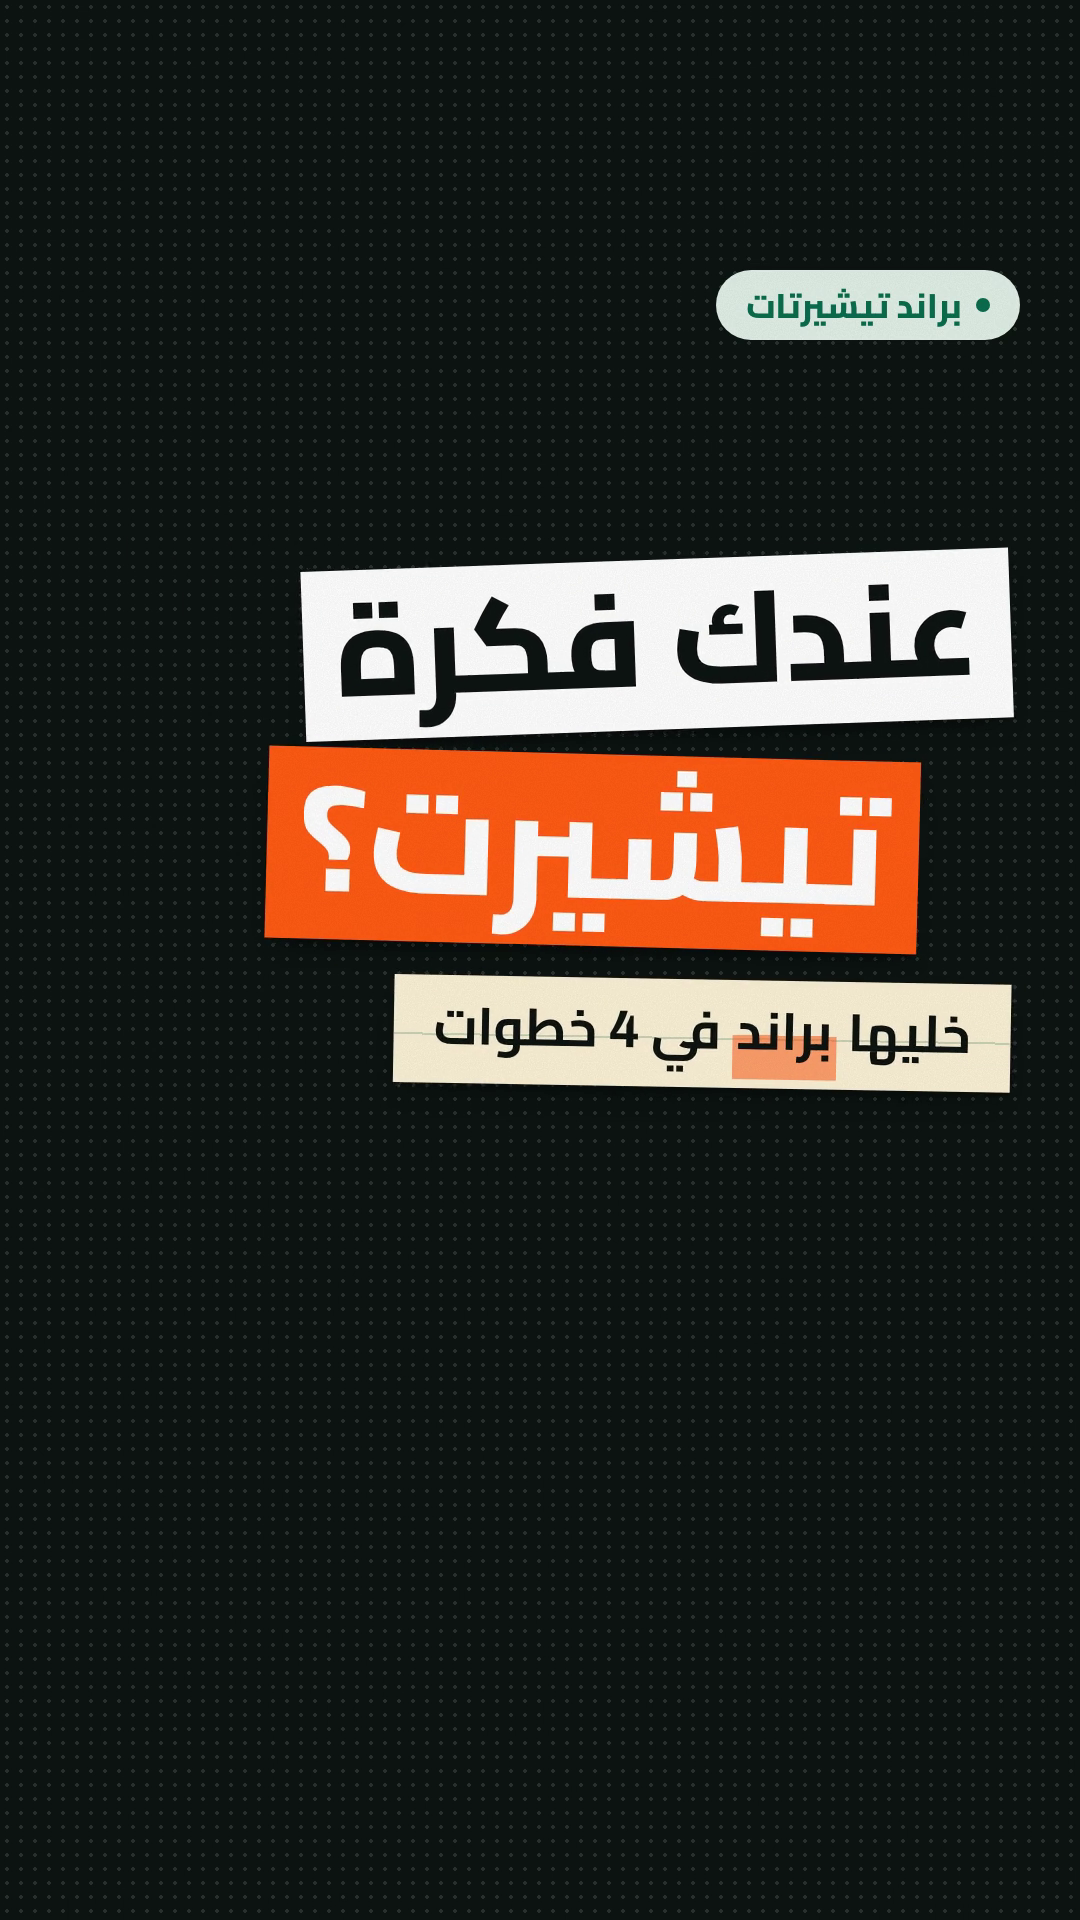
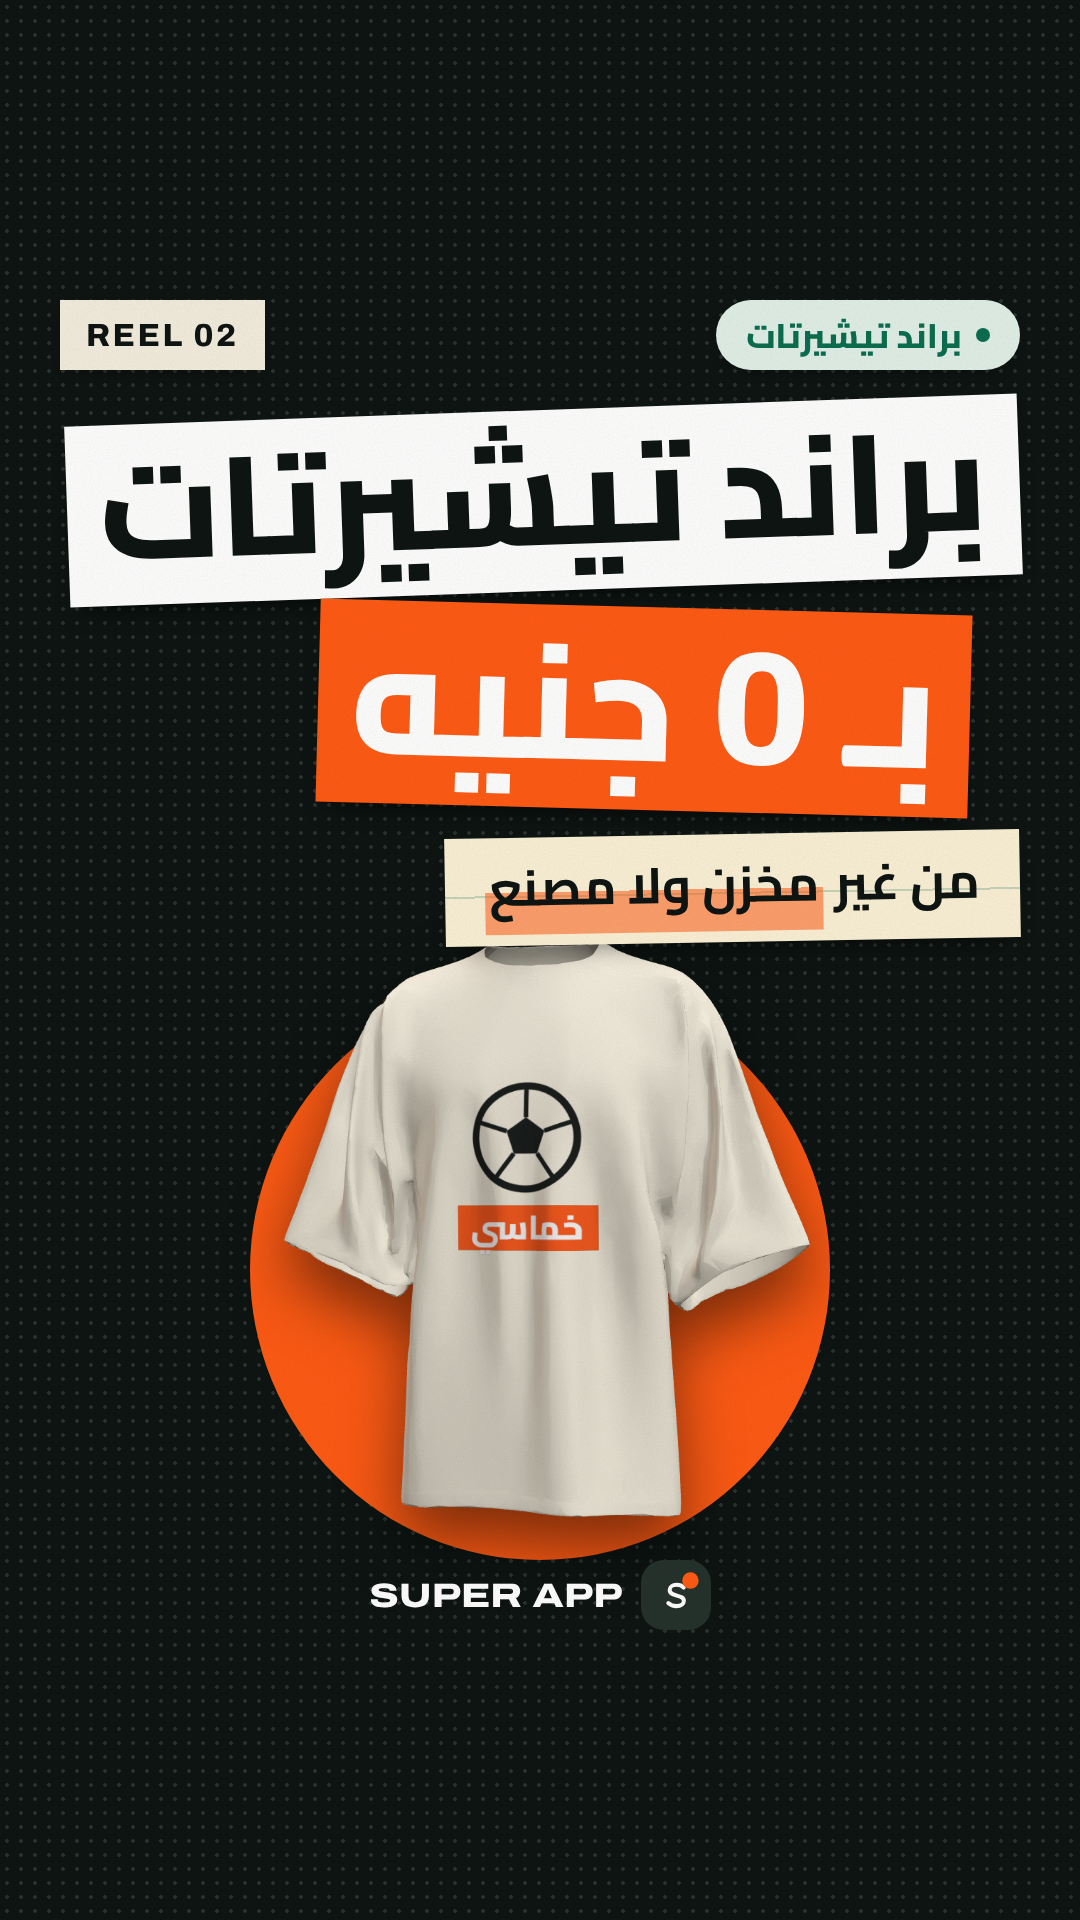
Designed reel covers for all seven reels
_kit/covers.html + covers.js render one series look (REEL 0X badge, ransom title, the reel's own art)
into each reel's cover.png, with everything inside the 4:5 profile-grid crop. The export pack and
caption files now point to the designed covers.

Claude-Session: https://claude.ai/code/session_01KdUXaQ8kdj6zjJLXkhVui9

diff --git a/marketing/reels/_kit/covers.html b/marketing/reels/_kit/covers.html
@@ -1,0 +1,80 @@
+<!doctype html>
+<html lang="ar" dir="rtl">
+<head>
+<meta charset="utf-8">
+<title>Reel covers</title>
+<!-- Designed covers for every reel, one series look. Render with ?r=01..07 (covers.js renders all into each reel's cover.png).
+     Everything that matters sits in the centre 1080×1350 (y 285–1635), so the profile grid's 4:5 / 3:4 crop keeps it. -->
+<link rel="stylesheet" href="reel.css">
+<style>
+  .series { top: 300px; left: 60px; z-index: 50; height: 70px; padding: 0 26px; background: var(--cream); color: var(--ink); font: 800 32px "Archivo", sans-serif; letter-spacing: .08em; display: flex; align-items: center; direction: ltr; box-shadow: 0 8px 16px -10px rgba(0,0,0,.45); }
+  .bg-cream .series { background: var(--ink); color: #fff; }
+  .tag { top: 300px; }
+  .title { right: 60px; left: 60px; top: 410px; display: flex; flex-direction: column; align-items: flex-start; gap: 16px; z-index: 30; }
+  .art { z-index: 10; }
+  .foot { left: 0; right: 0; top: 1560px; display: flex; justify-content: center; align-items: center; gap: 18px; z-index: 30; }
+  .foot .wm { font: 800 34px Archivo, sans-serif; font-stretch: 125%; color: var(--fg); direction: ltr; }
+  .print { background: #fff; padding: 16px; box-shadow: 0 30px 40px -22px rgba(0,0,0,.6); }
+  .print img { display: block; width: 100%; }
+  .circle { border-radius: 50%; overflow: hidden; box-shadow: 0 30px 40px -22px rgba(0,0,0,.6); border: 14px solid #fff; }
+  .circle img { width: 100%; display: block; }
+</style>
+</head>
+<body>
+<div class="abs halftone" id="ht"></div>
+<div class="abs tag"><i></i><span id="tagtx"></span></div>
+<div class="abs series" id="series"></div>
+<div id="c"></div>
+<div class="abs foot" id="foot"></div>
+<svg class="abs grain" width="1080" height="1920"><filter id="n"><feTurbulence type="fractalNoise" baseFrequency=".85" numOctaves="2" seed="4"/><feColorMatrix values="0 0 0 0 .08  0 0 0 0 .07  0 0 0 0 .05  0 0 0 .18 0"/></filter><rect width="1080" height="1920" filter="url(#n)"/></svg>
+<script src="reel.js"></script>
+<script>
+const R = '..';
+const tile = (bg, fg, label, icon) => `<div class="tile" style="width:230px;height:230px;border-radius:56px;background:${bg};color:${fg};font-size:30px">${icon}${label}</div>`;
+const COVERS = {
+  '01': { bg: 'bg-cream', tag: 'ماتش خماسي', title: [['b-ink', 150, 'أنواع اللاعيبة'], ['b-blaze', 140, 'في الخماسي'], ['note', 54, 'وانت <mark>مين فيهم؟</mark> 😂']],
+    art: `<div class="abs art circle" style="left:90px;top:900px;width:480px;height:480px;transform:rotate(-6deg)"><img src="${R}/01-khomasi-types/cover-art-10.png"></div>
+          <div class="abs art circle" style="right:80px;top:960px;width:420px;height:420px;transform:rotate(5deg)"><img src="${R}/01-khomasi-types/cover-art-5.png"></div>
+          <div class="abs tape" style="left:320px;top:900px;z-index:12;transform:rotate(-14deg)"></div>` },
+  '02': { bg: '', tag: 'براند تيشيرتات', title: [['b-paper', 140, 'براند تيشيرتات'], ['b-blaze', 160, 'بـ 0 جنيه'], ['note', 50, 'من غير <mark>مخزن ولا مصنع</mark>']],
+    art: `<div class="abs" style="left:250px;top:980px;width:580px;height:580px;border-radius:50%;background:var(--blaze)"></div>
+          <img class="abs art" src="${R}/02-tee-3d/assets/tee-print.png" style="left:220px;top:860px;width:640px;filter:drop-shadow(0 30px 30px rgba(0,0,0,.5))">` },
+  '03': { bg: 'bg-turf', tag: 'فانتازي الدوري المصري', title: [['b-paper', 120, 'فانتازي المصري'], ['b-ink', 110, 'والإنجليزي'], ['b-blaze', 130, 'في حساب واحد']],
+    art: `<div class="abs art phone" style="left:130px;top:990px;width:360px;height:520px;transform:rotate(-7deg)"><div class="screen"><img src="${R}/03-fantasy-two-leagues/assets/fx-egy.jpg" style="display:block"></div></div>
+          <div class="abs art phone" style="right:130px;top:970px;width:360px;height:520px;transform:rotate(6deg)"><div class="screen"><img src="${R}/03-fantasy-two-leagues/assets/fx-epl.jpg" style="display:block"></div></div>` },
+  '04': { bg: 'bg-cream', tag: 'ماتش خماسي', title: [['b-paper', 120, 'الماتش الساعة 9'], ['b-blaze', 130, 'وواحد اعتذر'], ['b-ink', 120, 'الساعة 8 😩']],
+    art: `<div class="abs art" style="left:90px;right:90px;top:1060px;display:flex;flex-direction:column;gap:20px">
+            <div class="bubble b-in" style="font-size:46px;transform:rotate(-2deg)"><span class="who">حسام</span>معلش يا رجالة مش هقدر آجي 🙏<small>8:02 م</small></div>
+            <div class="bubble b-out" style="font-size:46px;transform:rotate(1.5deg)">يعني إيه؟؟ الماتش كمان ساعة<small>8:03 م</small></div></div>` },
+  '05': { bg: '', tag: 'لأصحاب الملاعب', title: [['b-paper', 130, 'من الكراسة'], ['b-blaze', 140, 'للداشبورد'], ['note', 50, 'ملعبك <mark>أونلاين</mark> قبل الإطلاق']],
+    art: `<div class="abs art laptop" style="left:60px;top:1000px;width:960px;transform:rotate(-2deg)"><img src="${R}/05-notebook-to-dashboard/assets/dash-availability.jpg" style="height:440px;object-fit:cover;object-position:top"></div>
+          <div class="abs tape" style="left:30px;top:985px;z-index:12;transform:rotate(-30deg)"></div>` },
+  '06': { bg: 'bg-cream', tag: 'كل الكورة في مكان واحد', title: [['b-paper', 140, '4 أبلكيشنات'], ['b-blaze', 100, 'عشان ماتش واحد؟'], ['note', 54, 'قولنا <mark>رأيك</mark> في الكومنتات 👇']],
+    art: `<div class="abs art" style="left:110px;right:110px;top:1000px;display:grid;grid-template-columns:repeat(4,1fr);gap:24px;justify-items:center">
+      ${tile('var(--turf)', '#fff', 'حجز', '<svg width="80" height="80" viewBox="0 0 24 24" fill="none" stroke="#fff" stroke-width="1.6"><rect x="3" y="5" width="18" height="14" rx="1.5"/><path d="M12 5v14"/><circle cx="12" cy="12" r="2.2"/></svg>').replace('230px;height:230px', '180px;height:180px')}
+      ${tile('var(--ink)', '#fff', 'فانتازي', '<svg width="80" height="80" viewBox="0 0 24 24" fill="none" stroke="#fff" stroke-width="1.6" stroke-linejoin="round"><path d="M7 4h10v4a5 5 0 0 1-10 0z"/><path d="M12 13v4M8 20h8"/></svg>').replace('230px;height:230px', '180px;height:180px')}
+      ${tile('var(--surface)', 'var(--ink)', 'جداول', '<svg width="80" height="80" viewBox="0 0 24 24" fill="none" stroke="#0D1411" stroke-width="1.6"><rect x="3" y="4" width="18" height="17" rx="2"/><path d="M3 9h18"/></svg>').replace('230px;height:230px', '180px;height:180px')}
+      ${tile('#D6EFDF', 'var(--ink)', 'فلوس', '<svg width="80" height="80" viewBox="0 0 24 24" fill="none" stroke="#0D1411" stroke-width="1.6" stroke-linejoin="round"><path d="M4 18.5V6a2 2 0 0 1 2-2h12a2 2 0 0 1 2 2v8a2 2 0 0 1-2 2H8z"/></svg>').replace('230px;height:230px', '180px;height:180px')}
+    </div>
+    <div class="abs art" style="left:0;right:0;top:1250px;display:flex;justify-content:center"><span class="cta" style="font-size:44px;height:100px;background:var(--ink)">ولا تطبيق واحد؟</span></div>` },
+  '07': { bg: '', tag: 'Collab · ماتش خماسي', title: [['b-paper', 150, 'ماتش واحد'], ['b-blaze', 160, '3 حكايات'], ['note', 50, 'ملعب، ولاعيبة، و<mark>براند مصري</mark>']],
+    art: `<div class="abs" style="left:300px;top:1000px;width:480px;height:480px;border-radius:50%;background:var(--turf)"></div>
+          <img class="abs art" src="${R}/02-tee-3d/assets/tee-print.png" style="left:300px;top:930px;width:480px;filter:drop-shadow(0 30px 30px rgba(0,0,0,.5))">
+          <div class="abs art" style="right:60px;top:1040px;transform:rotate(-5deg)"><span class="cta" style="background:var(--surface);color:var(--ink);font-size:36px">⚽ الملعب</span></div>
+          <div class="abs art" style="left:60px;top:1190px;transform:rotate(4deg)"><span class="cta" style="background:var(--surface);color:var(--ink);font-size:36px">🧢 الكابتن</span></div>
+          <div class="abs art" style="right:80px;top:1340px;transform:rotate(-3deg)"><span class="cta" style="background:var(--surface);color:var(--ink);font-size:36px">👕 البراند</span></div>` },
+};
+const r = new URLSearchParams(location.search).get('r') || '01', c = COVERS[r];
+if (c.bg) document.body.classList.add(c.bg); else document.getElementById('ht').style.display = 'block';
+if (c.bg) document.getElementById('ht').style.display = 'none';
+document.getElementById('tagtx').textContent = c.tag;
+document.getElementById('series').textContent = `REEL ${r}`;
+const tilts = [-2, 1.5, -1];
+document.getElementById('c').innerHTML = `<div class="abs title">${c.title.map(([cls, size, txt], i) => cls === 'note'
+  ? `<span class="note" style="font-size:${size}px;margin-top:8px;transform:rotate(${tilts[i]}deg)">${txt}</span>`
+  : `<span class="block ${cls}" style="font-size:${size}px;transform:rotate(${tilts[i]}deg);${i === 1 && size < 150 && txt.length < 12 ? 'margin-inline-start:50px' : ''}">${txt}</span>`).join('')}</div>${c.art}`;
+document.getElementById('foot').innerHTML = MARK.replace('width="120" height="120"', 'width="70" height="70"') + '<span class="wm">SUPER APP</span>';
+window.ready = Promise.all([...document.images].map((im) => im.decode().catch(() => {})));
+</script>
+</body>
+</html>

diff --git a/marketing/reels/_kit/covers.js b/marketing/reels/_kit/covers.js
@@ -1,0 +1,18 @@
+// Renders _kit/covers.html (?r=01..07) into each reel folder as cover.png (1080×1920).
+// Usage: node _kit/covers.js [01]
+const fs = require('fs'), path = require('path');
+const { chromium } = require(require('child_process').execSync('npm root -g').toString().trim() + '/playwright');
+const reels = path.resolve(__dirname, '..');
+const only = process.argv[2];
+(async () => {
+  const b = await chromium.launch();
+  const p = await b.newPage({ viewport: { width: 1080, height: 1920 } });
+  for (const dir of fs.readdirSync(reels).filter((d) => /^\d\d-/.test(d) && (!only || d.startsWith(only)))) {
+    const r = dir.slice(0, 2);
+    await p.goto('file://' + path.join(__dirname, 'covers.html') + '?r=' + r);
+    await p.evaluate(() => document.fonts.ready); await p.evaluate(() => window.ready); await p.waitForTimeout(200);
+    await p.screenshot({ path: path.join(reels, dir, 'cover.png') });
+    console.log('cover', dir);
+  }
+  await b.close();
+})();

diff --git a/marketing/export.py b/marketing/export.py
@@ -95,7 +95,7 @@ ITEMS = [
          pin='قاعدة 4 ("هحوّلك بالليل") دي بتاعة مين عندكم؟ 😅'),
     # ---- reels (9:16, 1080×1920) ----
     dict(id='reel-01-khomasi-types', kind='reel', title='أنواع اللاعيبة في ماتش الخماسي', audience='لاعيبة الخماسي', when='أيام الأسبوع 8–11 م',
-         files=['reels/01-khomasi-types/reel-01-khomasi-types-v2.mp4', 'reels/01-khomasi-types/reel-01-khomasi-types-v2-silent.mp4', 'reels/01-khomasi-types/cover-v2.png'],
+         files=['reels/01-khomasi-types/reel-01-khomasi-types-v2.mp4', 'reels/01-khomasi-types/reel-01-khomasi-types-v2-silent.mp4', 'reels/01-khomasi-types/cover.png'],
          caption='''أنواع اللاعيبة في ماتش الخماسي 😂
 منشن صاحبك اللي مبيباصيش… وقولنا انت رقم كام؟
 
@@ -189,6 +189,7 @@ ORDER = ['post-04-captain-gw7', 'reel-01-khomasi-types', 'post-05-who-collects',
 
 def caption_txt(it):
     out = [f'{KIND[it["kind"]]}: {it["title"]}', f'الجمهور: {it["audience"]}', f'أحسن وقت: {it["when"]}', '', 'الكابشن:', it['caption'], '', 'أول كومنت (ثبّته):', it['pin'], '', 'هوك بديل (جرّبه A/B أو على تيك توك):', it['alt']]
+    if it['kind'] == 'reel': out += ['', 'الغلاف:', 'ارفع cover.png كغلاف (تعديل الغلاف ← إضافة من الصور)، وخلي العنوان في نص المربع عشان شبكة البروفايل.']
     if it.get('notes'): out += ['', 'قبل النشر:', it['notes']]
     return '\n'.join(out) + '\n'
 

diff --git a/marketing/reels/01-khomasi-types/README.md b/marketing/reels/01-khomasi-types/README.md
@@ -7,8 +7,8 @@
 |---|---|
 | `reel-01-khomasi-types-v2.mp4` | **Current version (v2):** collage style from `docs/brand/references.md`, full 104 BPM beat + paper/tape/stamp/whoosh foley, -14.5 LUFS |
 | `reel-01-khomasi-types-v2-silent.mp4` | v2 without sound, for adding trending audio inside Instagram/TikTok |
-| `cover-v2.png` | v2 cover frame (hook) |
-| `reel-01-khomasi-types.mp4`, `-silent.mp4`, `cover.png` | v1 (flat style, effects only) — kept for comparison |
+| `cover.png` | Designed cover (series look, `../_kit/covers.html`); `cover-v2.png` is the plain hook frame |
+| `reel-01-khomasi-types.mp4`, `-silent.mp4` | v1 (flat style, effects only) — kept for comparison |
 | `index.html` | The composition: `window.render(t)` draws any frame; open it in a browser to scrub |
 | `render.js` | `node render.js` → MP4 (Playwright frames + ffmpeg); `--frames=1.3,5` saves stills |
 | `sfx.py` | Generates `sfx.wav`: the beat and foley (no licensed audio used) |

diff --git a/marketing/reels/02-tee-3d/README.md b/marketing/reels/02-tee-3d/README.md
@@ -7,7 +7,7 @@
 |---|---|
 | `reel-02-tee-3d.mp4` | The reel, with the 104 BPM beat + paper/tape/stamp/ding foley, about -14 LUFS |
 | `reel-02-tee-3d-silent.mp4` | Same, no sound, for adding trending audio inside Instagram/TikTok |
-| `cover.png` | Cover frame (hook) |
+| `cover.png` | Designed cover (series look from `../_kit/covers.html`, title inside the 4:5 grid crop) |
 | `index.html` | The composition: `window.render(t)` draws any frame; open it in a browser to scrub |
 | `tee-turn.html` | Renders `models/tee.glb` with three.js, prints the design as a decal: `?a=<turn 0..1>&print=0\|1&c=<hex>` |
 | `render.js` | `node render.js` → MP4 (Playwright frames + ffmpeg); `--frames=1.3,5` saves stills |

diff --git a/marketing/reels/06-cta-comment/README.md b/marketing/reels/06-cta-comment/README.md
@@ -3,6 +3,8 @@
 **Audience:** footballers who juggle several apps · **Goal:** comments (the algorithm signal) + people waiting for launch · **One CTA:** write your pick in the comments
 **Format:** 9:16, 1080×1920, 30 fps, 20 s · **Style:** collage on cream grid · voiceover in Egyptian Arabic + burned-in subtitles · built on `../_kit`
 
+**Cover:** `cover.png`, the designed cover (series look from `../_kit/covers.html`).
+
 ## Voiceover script (Egyptian Arabic, young energetic male voice)
 | Time | Line (also the on-screen subtitle) | On screen |
 |---|---|---|

diff --git a/marketing/reels/_kit/README.md b/marketing/reels/_kit/README.md
@@ -8,3 +8,4 @@
 | `render.js` | `node _kit/render.js <reel-dir>` → `<reel-dir>/reel-<name>.mp4` at 30 fps with `sfx.wav` normalised to -14 LUFS; `--frames=1,5` saves stills |
 
 New reel: copy `03-fantasy-two-leagues/`, change the markup, `T`, `caps` and `scene`, then `python3 sfx.py && node ../_kit/render.js .`
+| `covers.html` + `covers.js` | Designed reel covers, one series look (REEL 0X badge, ransom title, the reel's own art). `node _kit/covers.js [01]` writes each reel's `cover.png`; everything sits in the centre 1080×1350 so the profile grid crop keeps it |

diff --git a/marketing/reels/07-collab-three/README.md b/marketing/reels/07-collab-three/README.md
@@ -4,6 +4,8 @@
 **Audience:** footballers (each partner brings theirs) · **One CTA:** تابعونا… الإطلاق قرّب
 **Format:** 9:16, 1080×1920, 30 fps, 18 s · **Style:** collage on ink · voiceover in Egyptian Arabic + burned-in subtitles · built on `../_kit`
 
+**Cover:** `cover.png`, the designed cover (series look from `../_kit/covers.html`).
+
 ## Voiceover script
 | Time | Line (also the subtitle) | On screen |
 |---|---|---|

diff --git a/marketing/reels/03-fantasy-two-leagues/README.md b/marketing/reels/03-fantasy-two-leagues/README.md
@@ -7,7 +7,7 @@
 |---|---|
 | `reel-03-fantasy-two-leagues.mp4` | The reel with sound (-14.3 LUFS) |
 | `reel-03-fantasy-two-leagues-silent.mp4` | No sound, for trending audio inside Instagram/TikTok |
-| `cover.png` | Cover frame (hook) |
+| `cover.png` | Designed cover (series look from `../_kit/covers.html`, title inside the 4:5 grid crop) |
 | `index.html`, `sfx.py`, `assets/` | Composition, sound bed, real app screens (demo data) |
 
 ## Beats

diff --git a/marketing/reels/05-notebook-to-dashboard/README.md b/marketing/reels/05-notebook-to-dashboard/README.md
@@ -7,7 +7,7 @@
 |---|---|
 | `reel-05-notebook-to-dashboard.mp4` | The reel with sound (-14.4 LUFS) |
 | `reel-05-notebook-to-dashboard-silent.mp4` | No sound |
-| `cover.png` | Cover frame (hook) |
+| `cover.png` | Designed cover (series look from `../_kit/covers.html`, title inside the 4:5 grid crop) |
 | `index.html`, `sfx.py`, `assets/` | Composition, sound bed, real partner-dashboard screens (demo data, cropped) |
 
 ## Beats

diff --git a/marketing/reels/04-player-dropped/README.md b/marketing/reels/04-player-dropped/README.md
@@ -7,7 +7,7 @@
 |---|---|
 | `reel-04-player-dropped.mp4` | The reel with sound (-14.5 LUFS) |
 | `reel-04-player-dropped-silent.mp4` | No sound |
-| `cover.png` | Cover frame (hook) |
+| `cover.png` | Designed cover (series look from `../_kit/covers.html`, title inside the 4:5 grid crop) |
 | `index.html`, `sfx.py`, `assets/` | Composition, sound bed, real "players" screen (demo data) |
 
 ## Beats
